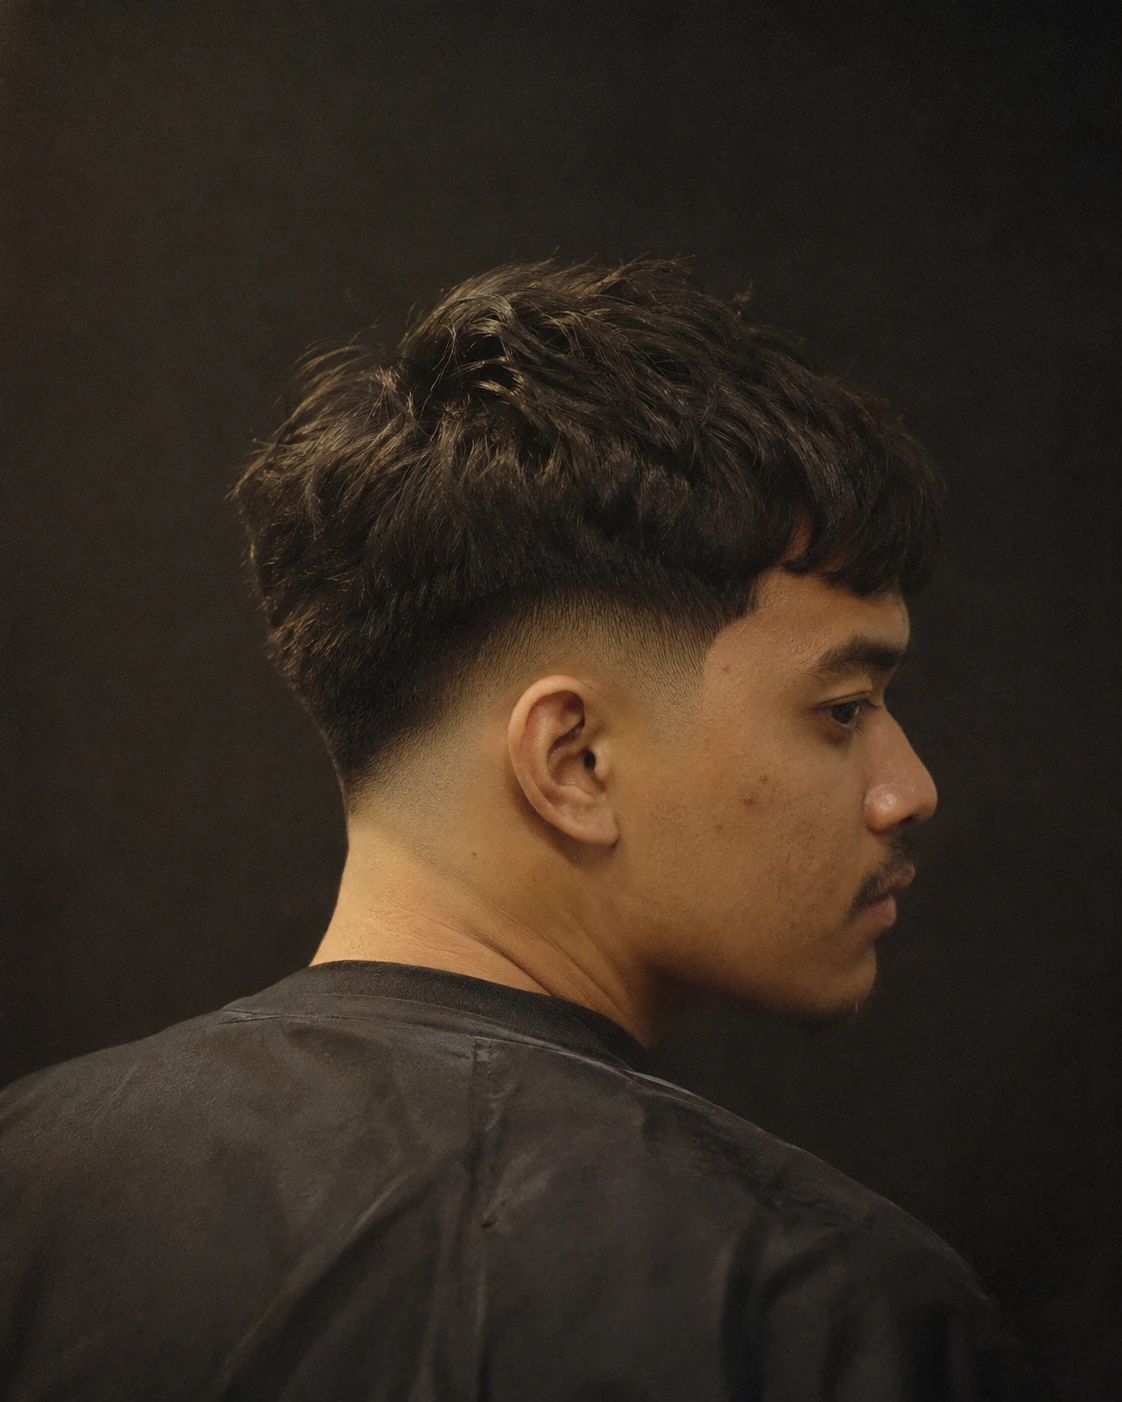
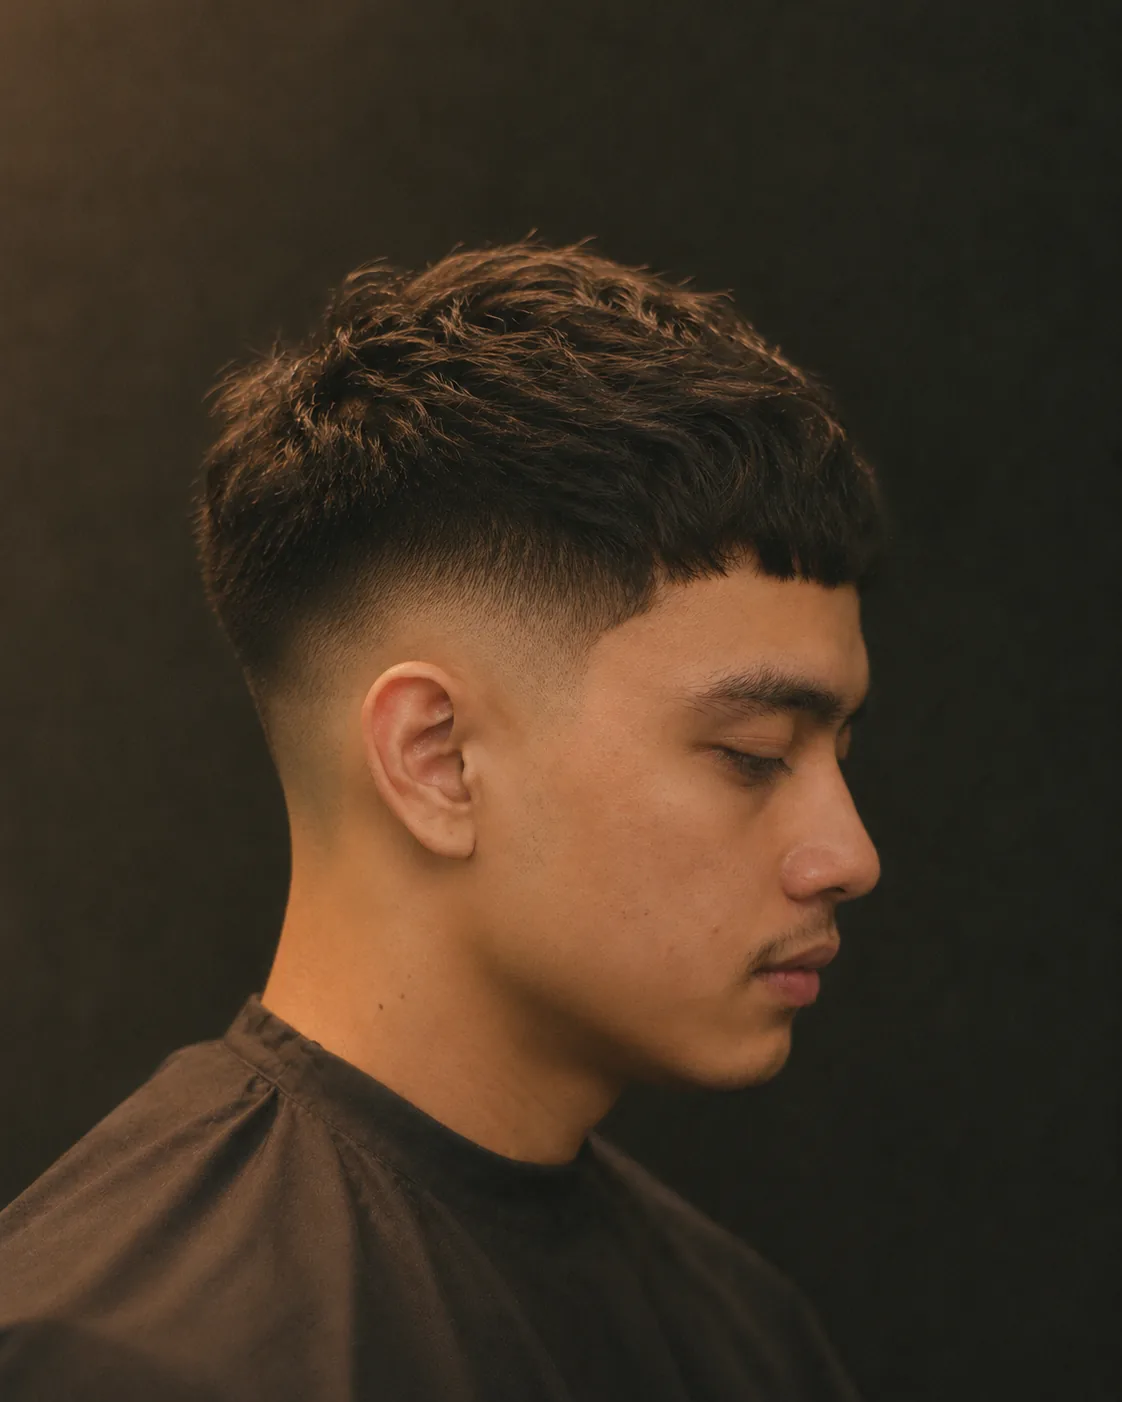
Full preview photo set: 12 cuts, 2 photos each
- Re-encoded all 24 cut photos from the original PNGs (about 40-100 KB each)
- Added the new full-beard close-up and the redone textured crop photos
- Brought back the skin fade cut

diff --git a/src/content/cuts.ts b/src/content/cuts.ts
@@ -80,10 +80,18 @@ export const cuts: Cut[] = [
     tags: ["jenggot", "pisau cukur", "handuk hangat"],
   },
   {
+    slug: "skin-fade-textured-top",
+    name: "Skin Fade dengan Atas Bertekstur",
+    style: "fade",
+    images: shots("skin-fade-textured-top", "Skin fade dengan rambut bagian atas bertekstur", ["Side", "Back"]),
+    technique: "Bagian bawah dibotakin pakai foil shaver, terus di-blend naik dari sisir 0,5 sampai 2. Atasnya di-point cut biar ada tekstur dan gerak waktu ditata pakai matte paste.",
+    tags: ["skin fade", "tekstur", "hasil matte"],
+  },
+  {
     slug: "burst-fade-curls",
     name: "Burst Fade Rambut Keriting",
     style: "fade",
-    images: shots("burst-fade-curls", "Burst fade dengan rambut keriting di bagian atas", ["Side"]),
+    images: shots("burst-fade-curls", "Burst fade dengan rambut keriting di bagian atas", ["Side", "Back"]),
     technique: "Fade melingkar di sekitar telinga, belakangnya dibiarkan lebih panjang. Keritingnya dipotong kering satu per satu, biar jatuhnya natural.",
     tags: ["burst fade", "rambut keriting", "potong kering"],
   },
@@ -91,7 +99,7 @@ export const cuts: Cut[] = [
     slug: "buzz-cut-line-up",
     name: "Buzz Cut + Line-up",
     style: "buzz",
-    images: shots("buzz-cut-line-up", "Buzz cut dengan garis rambut tegas", ["Side"]),
+    images: shots("buzz-cut-line-up", "Buzz cut dengan garis rambut tegas", ["Side", "Back"]),
     technique: "Sisir nomor 2 rata, dipotong melawan arah tumbuh. Garis depan dibuat kotak, tengkuk di-taper biar tumbuhnya tetap rapi.",
     tags: ["buzz", "line-up", "gampang dirawat"],
   },
@@ -99,7 +107,7 @@ export const cuts: Cut[] = [
     slug: "long-layers-flow",
     name: "Layer Rambut Panjang",
     style: "long",
-    images: shots("long-layers-flow", "Rambut panjang berlapis", ["Side"]),
+    images: shots("long-layers-flow", "Rambut panjang berlapis", ["Side", "Detail"]),
     technique: "Panjang dijaga sampai kerah, layer di dalam buat ngurangin berat. Samping bisa diselipin ke belakang telinga tanpa garis kelihatan.",
     tags: ["rambut panjang", "layer", "gunting"],
   },
@@ -107,7 +115,7 @@ export const cuts: Cut[] = [
     slug: "high-taper-pompadour",
     name: "High Taper + Pompadour",
     style: "taper",
-    images: shots("high-taper-pompadour", "High taper dengan pompadour", ["Side"]),
+    images: shots("high-taper-pompadour", "High taper dengan pompadour", ["Side", "Back"]),
     technique: "High taper biar kontras, atasnya dibiarkan cukup panjang buat di-blow ke belakang. Finishing pakai pomade biar mengkilap.",
     tags: ["high taper", "pompadour", "mengkilap"],
   },
@@ -115,7 +123,7 @@ export const cuts: Cut[] = [
     slug: "full-beard-shape",
     name: "Rapihin Jenggot",
     style: "beard",
-    images: shots("full-beard-shape", "Jenggot penuh dengan garis tepi rapi", ["Front", "Side"]),
+    images: shots("full-beard-shape", "Jenggot penuh dengan garis tepi rapi", ["Front", "Detail"]),
     technique: "Panjangnya dipertahankan, volume di pipi dikurangi biar rahangnya kelihatan. Kumis dirapikan di atas garis bibir.",
     tags: ["jenggot penuh", "bentuk", "kumis"],
   },
@@ -123,7 +131,7 @@ export const cuts: Cut[] = [
     slug: "mid-fade-quiff",
     name: "Mid Fade + Quiff",
     style: "fade",
-    images: shots("mid-fade-quiff", "Mid fade dengan quiff", ["Side"]),
+    images: shots("mid-fade-quiff", "Mid fade dengan quiff", ["Side", "Front"]),
     technique: "Mid fade di-blend ke potongan gunting di atas, bagian depan dibiarkan paling panjang buat quiff yang naik.",
     tags: ["mid fade", "quiff", "volume"],
   },
